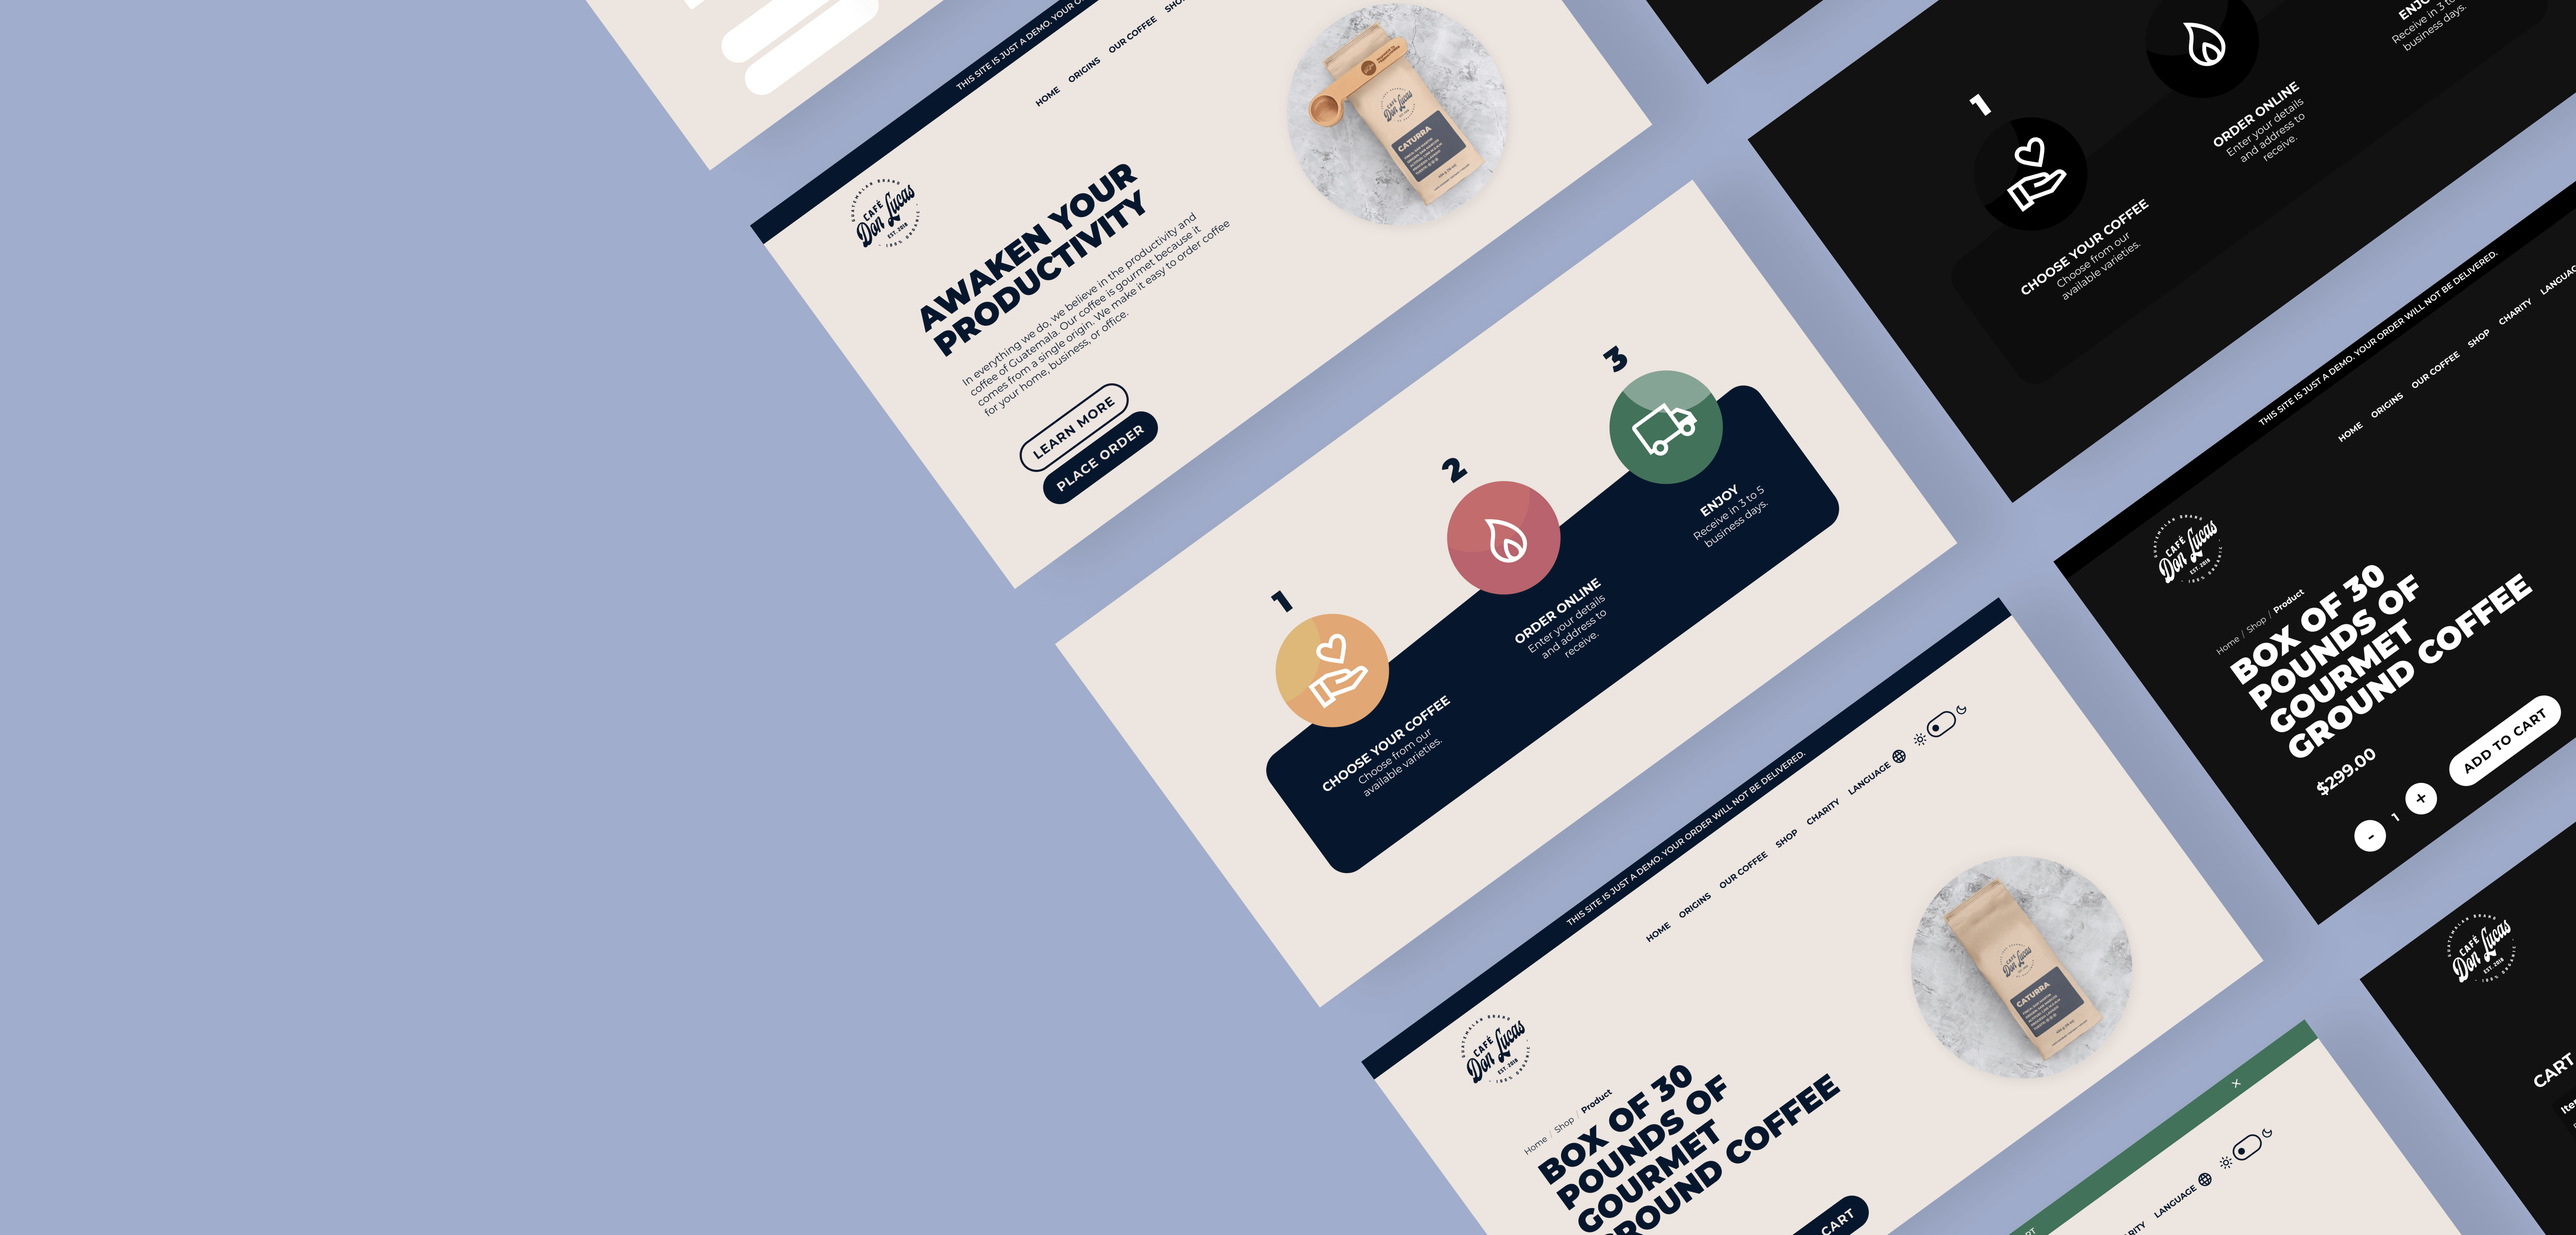
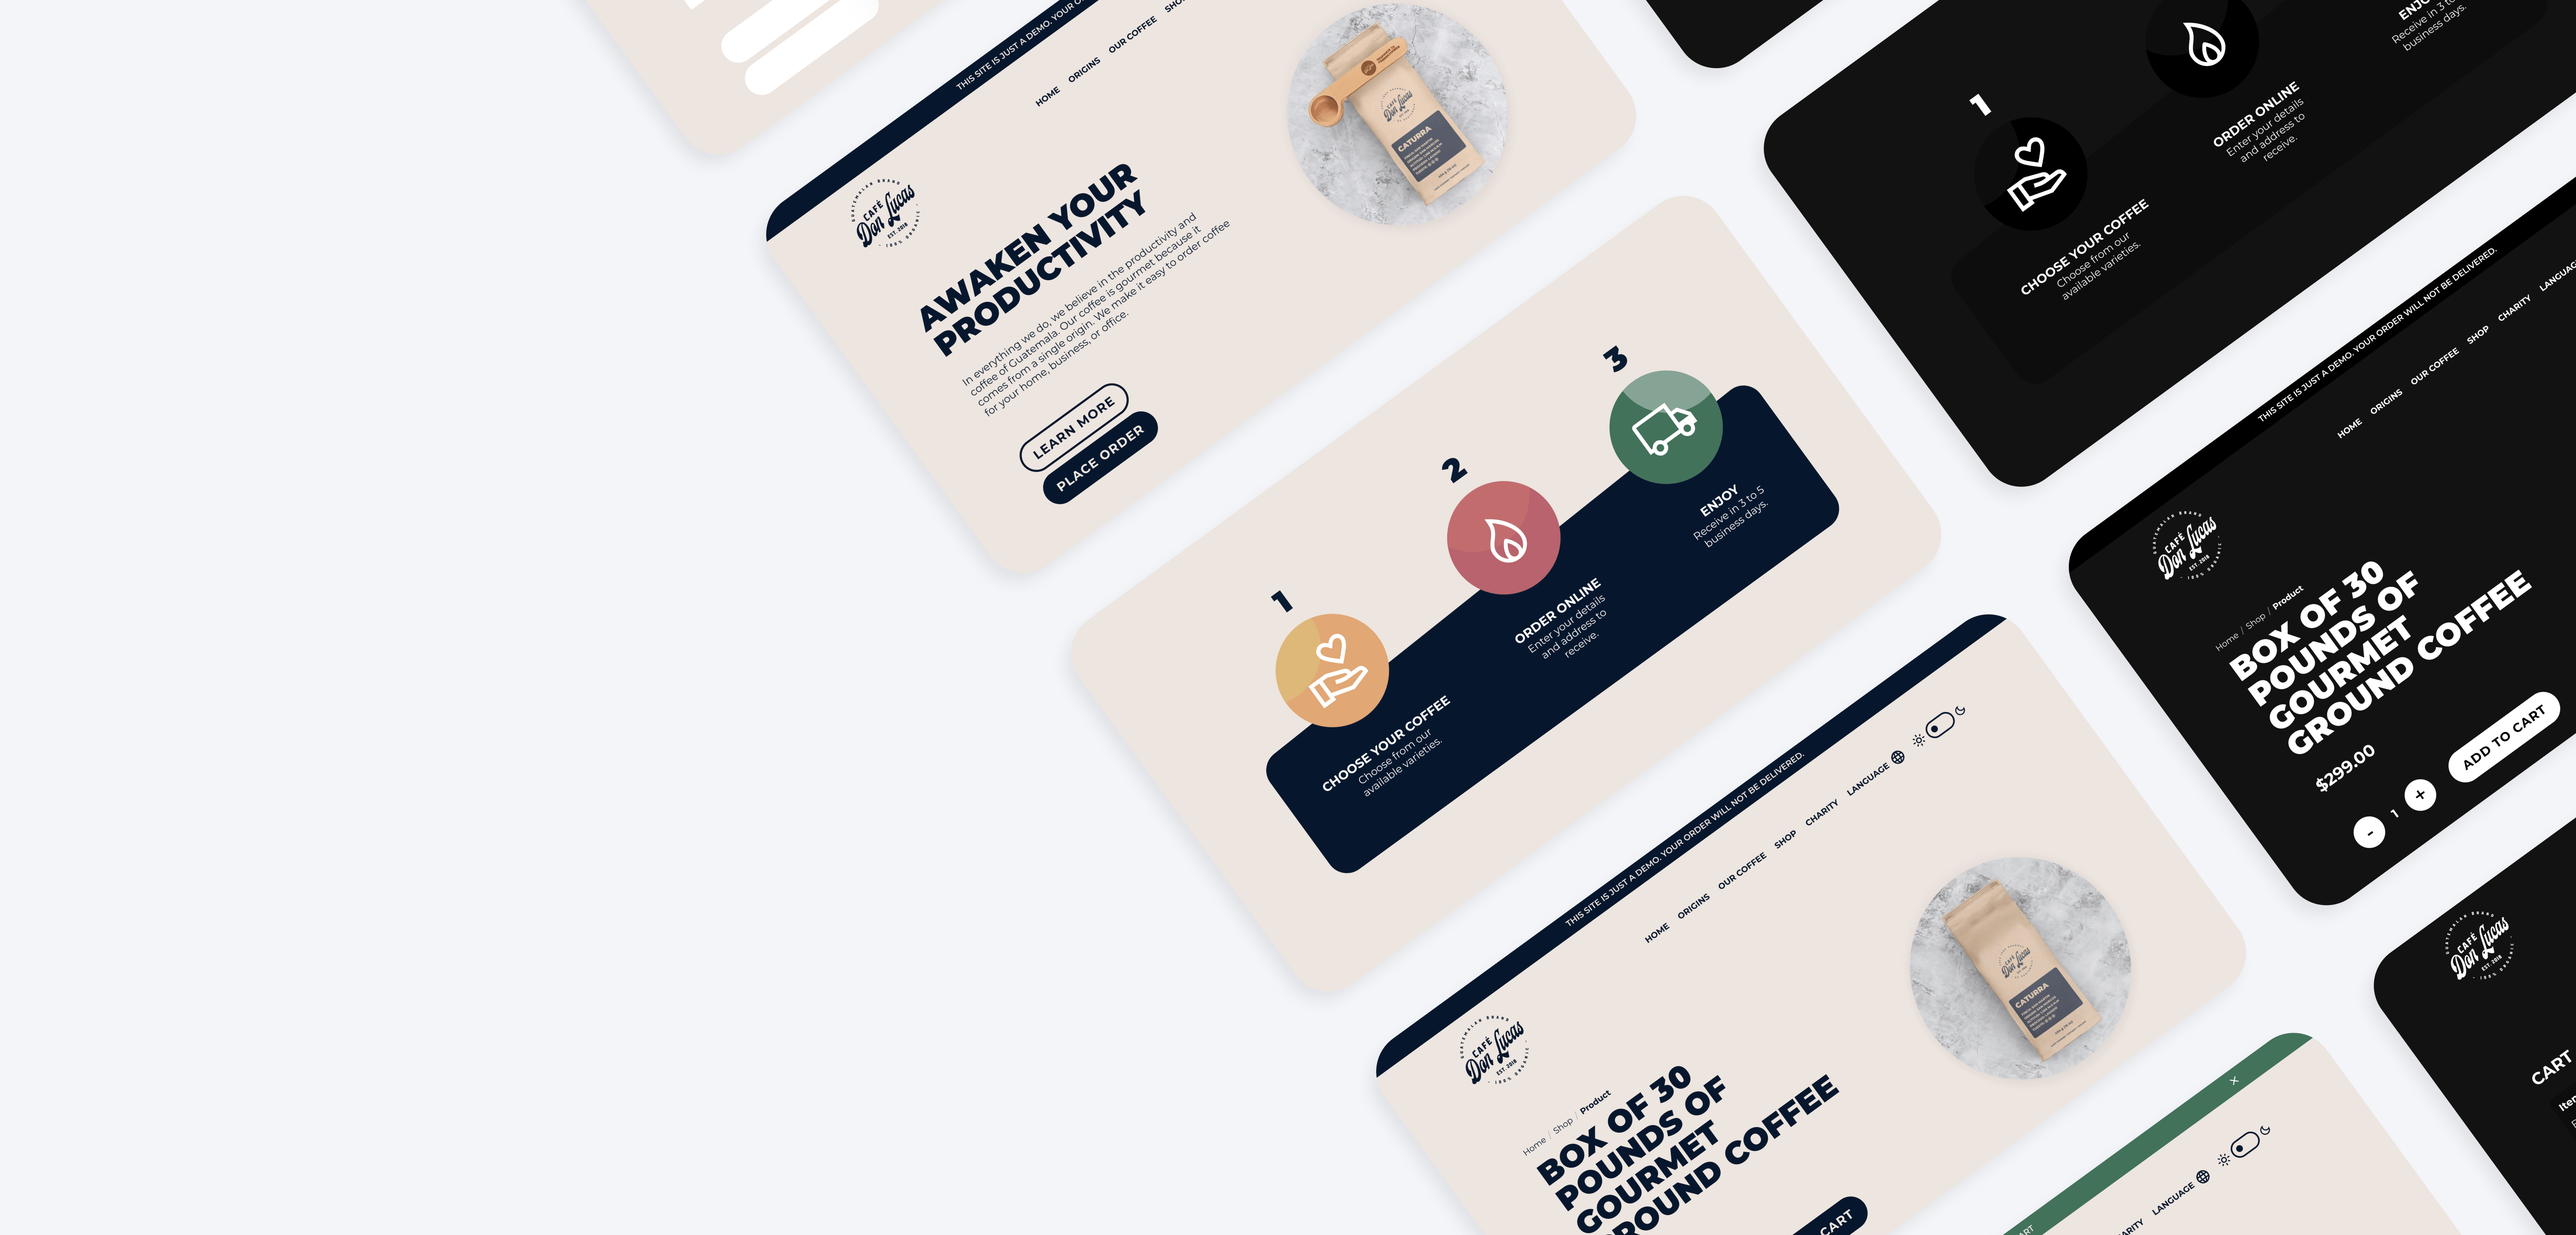
git push origin main

diff --git a/css/custom.css b/css/custom.css
@@ -36,6 +36,22 @@ h3 {
   background: #E8EAF2;
 }
 
+.work-card-preview.w-inline-block {
+  border-radius: 48px;
+}
+
+img { 
+  border-radius: 48px !important;
+}
+
+video {
+  border-radius: 48px !important;
+}
+
+.service-icon {
+  border-radius: 0px !important;
+}
+
 .work-card-description {
   margin-bottom: 30px;
 }
